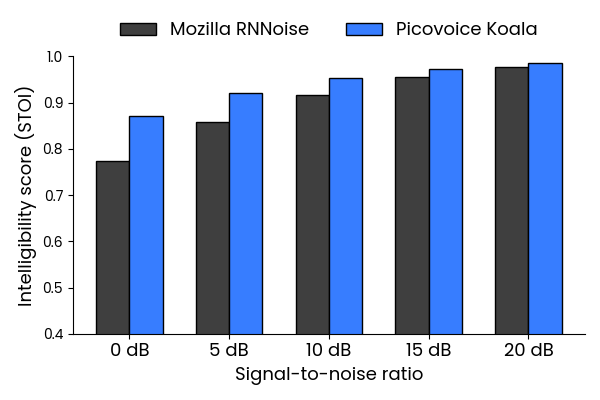
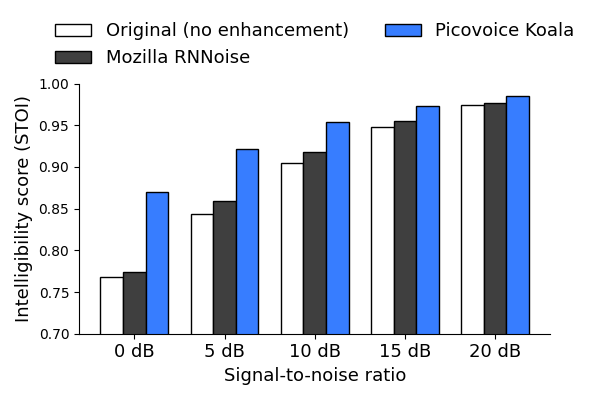
Include baseline in plot

diff --git a/plot_results.py b/plot_results.py
@@ -39,7 +39,7 @@ ENGINE_COLORS = {
 
 ENGINE_PRINT_NAMES = {
     Engines.MOZILLA_RNNOISE: "Mozilla RNNoise",
-    Engines.ORIGINAL: "Original (baseline)",
+    Engines.ORIGINAL: "Original (no enhancement)",
     Engines.PICOVOICE_KOALA: "Picovoice Koala",
 }
 
